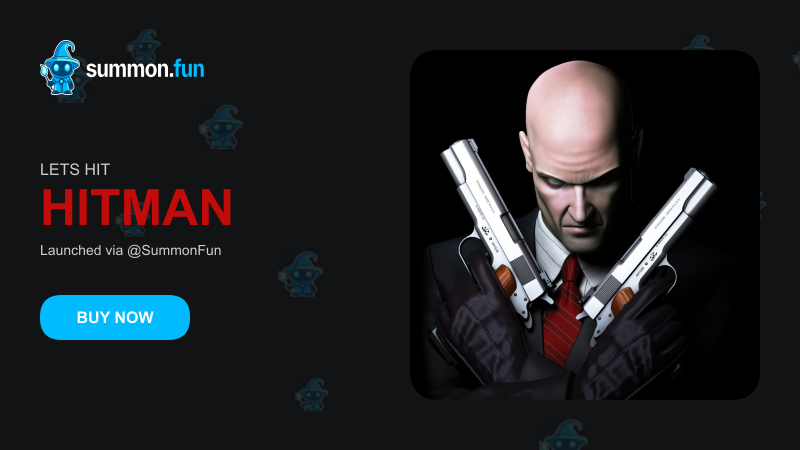
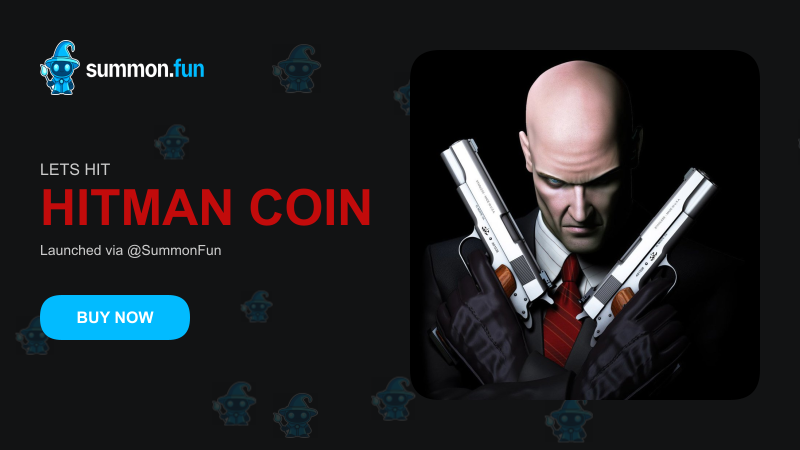
added

diff --git a/controllers/createCoinLogic.js b/controllers/createCoinLogic.js
@@ -14,6 +14,20 @@ const CONTRACT_PATH = path.join(PROJECT_ROOT, 'meme_launchpad/sources/fungible_t
 const BUILD_DIR = path.join(PROJECT_ROOT, 'meme_launchpad/build/meme_launchpad');
 const KEY_PATH = path.join(PROJECT_ROOT, 'key.json');
 
+// Helper: Get largest gas coin
+async function getLargestGasCoin(suiClient, owner) {
+    const coins = await suiClient.getCoins({
+        owner,
+        coinType: '0x2::sui::SUI'
+    });
+    if (!coins.data.length) {
+        throw new Error('No SUI coins found for gas payment.');
+    }
+    return coins.data.reduce((max, coin) =>
+        BigInt(coin.balance) > BigInt(max.balance) ? coin : max
+    );
+}
+
 const createCoinLogic = async ({ name, symbol, iconUrl }) => {
     const description = `${symbol} was launched by the X account.`;
     const decimals = 9;
@@ -36,7 +50,7 @@ const createCoinLogic = async ({ name, symbol, iconUrl }) => {
 
         fs.writeFileSync(CONTRACT_PATH, newCode);
 
-        // Build Move package and capture JSON output
+        // Build Move package
         const buildOutput = execSync(
             'sui move build --skip-fetch-latest-git-deps --dump-bytecode-as-base64',
             {
@@ -52,7 +66,6 @@ const createCoinLogic = async ({ name, symbol, iconUrl }) => {
             throw new Error(`Failed to parse build output: ${parseError.message}`);
         }
 
-        // Validate build output structure
         if (!buildInfo.modules || !Array.isArray(buildInfo.modules)) {
             throw new Error('Invalid build output: Missing modules array');
         }
@@ -60,12 +73,10 @@ const createCoinLogic = async ({ name, symbol, iconUrl }) => {
             throw new Error('Invalid build output: Missing dependencies array');
         }
 
-        // Convert base64 modules to Uint8Array
         const modules = buildInfo.modules.map(base64Str =>
             Array.from(Buffer.from(base64Str, 'base64'))
         );
 
-        // Format dependencies as 64-character hex strings
         const dependencies = buildInfo.dependencies.map(dep => {
             const cleanDep = dep.replace(/^0x/, '');
             if (!/^[0-9a-fA-F]+$/.test(cleanDep)) {
@@ -79,10 +90,21 @@ const createCoinLogic = async ({ name, symbol, iconUrl }) => {
         const suiClient = new SuiClient({ url: getFullnodeUrl('testnet') });
         const sender = keypair.getPublicKey().toSuiAddress();
 
-        // Publish package transaction
+        // Pick the largest gas coin
+        const largestGasCoin = await getLargestGasCoin(suiClient, sender);
+
+        console.log("sender", sender);
+
+
+        // --- Publish package ---
         const publishTx = new TransactionBlock();
         publishTx.setSender(sender);
-        publishTx.setGasBudget(500_000_000);
+        publishTx.setGasBudget(100_000_000);
+        publishTx.setGasPayment([{
+            objectId: largestGasCoin.coinObjectId,
+            digest: largestGasCoin.digest,
+            version: largestGasCoin.version
+        }]);
 
         const [upgradeCap] = publishTx.publish({ modules, dependencies });
         publishTx.transferObjects([upgradeCap], publishTx.pure(sender));
@@ -93,7 +115,7 @@ const createCoinLogic = async ({ name, symbol, iconUrl }) => {
             options: {
                 showObjectChanges: true,
                 showEffects: true,
-                waitForTransactionBlock: true  // Wait for transaction to be indexed
+                waitForTransactionBlock: true
             },
         });
 
@@ -106,22 +128,38 @@ const createCoinLogic = async ({ name, symbol, iconUrl }) => {
             (o) => o.type === 'created' && o.objectType?.includes('::coin::TreasuryCap')
         );
 
+        console.log("pkgId", pkgId);
+        console.log("treasuryCap", treasuryCap);
+
+
         if (!pkgId || !treasuryCap) {
             throw new Error('Missing package ID or TreasuryCap');
         }
 
-        // Add delay to ensure package is fully indexed
+        // Small delay to allow indexing
         await new Promise(resolve => setTimeout(resolve, 3000));
 
-        // Bonding curve creation transaction
+        // Pick largest gas coin again (balances might have changed)
+        const largestGasCoin2 = await getLargestGasCoin(suiClient, sender);
+
+        // --- Create bonding curve ---
         const bondingTx = new TransactionBlock();
         bondingTx.setSender(sender);
-        bondingTx.setGasBudget(100_000_000); // Increased gas budget
+        bondingTx.setGasBudget(100_000_000);
+        bondingTx.setGasPayment([{
+            objectId: largestGasCoin2.coinObjectId,
+            digest: largestGasCoin2.digest,
+            version: largestGasCoin2.version
+        }]);
 
         bondingTx.moveCall({
             target: `${pkgId}::bonding_curve::create_bonding_curve`,
-            arguments: [bondingTx.object(treasuryCap.objectId)],
+            arguments: [
+                bondingTx.object(treasuryCap.objectId),  // TreasuryCap<MEME_TOKEN>
+                bondingTx.pure.u64(100)                  // fee_bps = 500 → 5% fee (example)
+            ]
         });
+
 
         const bondingResult = await suiClient.signAndExecuteTransactionBlock({
             signer: keypair,
@@ -129,7 +167,7 @@ const createCoinLogic = async ({ name, symbol, iconUrl }) => {
             options: {
                 showObjectChanges: true,
                 showEffects: true,
-                waitForTransactionBlock: true  // Wait for transaction to be indexed
+                waitForTransactionBlock: true
             },
         });
 

diff --git a/controllers/contractControllers.js b/controllers/contractControllers.js
@@ -10,11 +10,25 @@ const Profile = require("../models/Profile");
 const { AccessToken } = require("livekit-server-sdk");
 const Watchlist = require('../models/Watchlist');
 
-async function resolveDependencies() {
-  return [
[2 lines of base64/hex data omitted]
+async function resolveDependencies(packagePath) {
+  const coreDependencies = [
[2 lines of base64/hex data omitted]
   ];
+
+  // Read Move.toml for additional dependencies
+  const tomlPath = `${packagePath}/Move.toml`;
+  let dependencyAddresses = [];
+  if (fs.existsSync(tomlPath)) {
+    const tomlContent = fs.readFileSync(tomlPath, 'utf8');
+    const matches = tomlContent.match(/addresses\s*=\s*{([^}]*)}/)?.[1] || '';
+    dependencyAddresses = matches
+      .split(',')
+      .map(line => line.match(/(\w+)\s*=\s*"0x([0-9a-fA-F]+)"/)?.[2])
+      .filter(Boolean);
+  }
+
+  return [...new Set([...coreDependencies, ...dependencyAddresses])];
 }
 
 exports.createCoin = async (req, res) => {
@@ -50,54 +64,45 @@ exports.createCoin = async (req, res) => {
     let code = fs.readFileSync(contractPath, "utf8");
 
     code = code.replace(/DECIMALS: u8 = \d+;/, `DECIMALS: u8 = ${decimals};`);
-    code = code.replace(
-      /ICON_URL: vector<u8> = b\".*\";/,
-      `ICON_URL: vector<u8> = b\"${iconUrl}\";`
-    );
-    code = code.replace(
-      /NAME: vector<u8> = b\".*\";/,
-      `NAME: vector<u8> = b\"${name}\";`
-    );
-    code = code.replace(
-      /SYMBOL: vector<u8> = b\".*\";/,
-      `SYMBOL: vector<u8> = b\"${symbol}\";`
-    );
-    code = code.replace(
-      /DESCRIPTION: vector<u8> = b\".*\";/,
-      `DESCRIPTION: vector<u8> = b\"${description}\";`
-    );
-    code = code.replace(
-      /MAX_SUPPLY: u64 = \d+;/,
-      `MAX_SUPPLY: u64 = ${maxSupply};`
-    );
+    code = code.replace(/ICON_URL: vector<u8> = b\".*\";/, `ICON_URL: vector<u8> = b\"${iconUrl}\";`);
+    code = code.replace(/NAME: vector<u8> = b\".*\";/, `NAME: vector<u8> = b\"${name}\";`);
+    code = code.replace(/SYMBOL: vector<u8> = b\".*\";/, `SYMBOL: vector<u8> = b\"${symbol}\";`);
+    code = code.replace(/DESCRIPTION: vector<u8> = b\".*\";/, `DESCRIPTION: vector<u8> = b\"${description}\";`);
+    code = code.replace(/MAX_SUPPLY: u64 = \d+;/, `MAX_SUPPLY: u64 = ${maxSupply};`);
 
     fs.writeFileSync(contractPath, code);
 
-    // Build the Move contract
-    execSync("sui move build --skip-fetch-latest-git-deps", {
-      cwd: path.join(__dirname, "../meme_launchpad"),
-      stdio: "inherit",
-    });
-
-    const buildDir = path.join(
-      __dirname,
-      "../meme_launchpad/build/meme_launchpad/bytecode_modules"
+    // Build Move package with dependencies in output
+    const buildOutput = execSync(
+      "sui move build --skip-fetch-latest-git-deps --dump-bytecode-as-base64",
+      {
+        cwd: path.join(__dirname, "../meme_launchpad"),
+        encoding: "utf-8",
+      }
     );
-    const moduleFiles = [
-      "safe_math.mv",
-      "safe_math_u256.mv",
-      "meme_token.mv",
-      "bonding_curve.mv",
-    ];
 
-    const bytecode = moduleFiles.map((filename) => {
-      const filePath = path.join(buildDir, filename);
-      if (!fs.existsSync(filePath))
-        throw new Error(`Bytecode not found: ${filename}`);
-      return fs.readFileSync(filePath, "base64");
-    });
+    let buildInfo;
+    try {
+      buildInfo = JSON.parse(buildOutput);
+    } catch (err) {
+      throw new Error(`Failed to parse build output: ${err.message}`);
+    }
 
-    const dependencies = await resolveDependencies();
+    if (!Array.isArray(buildInfo.modules) || !Array.isArray(buildInfo.dependencies)) {
+      throw new Error("Invalid build output format");
+    }
+
+    // Prepare bytecode modules
+    const bytecode = buildInfo.modules.map((base64) =>
+      Buffer.from(base64, "base64").toString("base64")
+    );
+
+    // Dependencies are already correct from compiler
+    const dependencies = buildInfo.dependencies.map((dep) =>
+      dep.startsWith("0x") ? dep : `0x${dep}`
+    );
+
+    console.log("dependencies", dependencies);
 
     res.json({
       success: true,
@@ -111,6 +116,7 @@ exports.createCoin = async (req, res) => {
     res.status(500).json({ error: "Server error", details: error.message });
   }
 };
+
 
 exports.storeCoin = async (req, res) => {
   try {

diff --git a/controllers/twiiterController.js b/controllers/twiiterController.js
@@ -166,14 +166,8 @@ async function handleMentions() {
                 });
 
                 await generatePoster({
-                    name,
-                    ticker,
-                    iconUrl
-                });
-
-                await generatePoster({
-                    title: name.toUpperCase(),
-                    subtitle: `LETS ${ticker.toUpperCase()}`,
+                    title: name,
+                    subtitle: `LETS ${ticker}`,
                     launchInfo: "Launched via @SummonFun",
                     buttonText: "BUY NOW",
                     imageUrl: iconUrl

diff --git a/server.js b/server.js
@@ -66,7 +66,7 @@ app.use('/api/streams', streamRoutes);
 app.use("/api", streamRoutes);
 
 // Run bot every 60 seconds
-// setInterval(handleMentions, 60000);
+// setInterval(handleMentions, 10000);
 
 // ✅ Health check
 app.get('/health', async (req, res) => {
